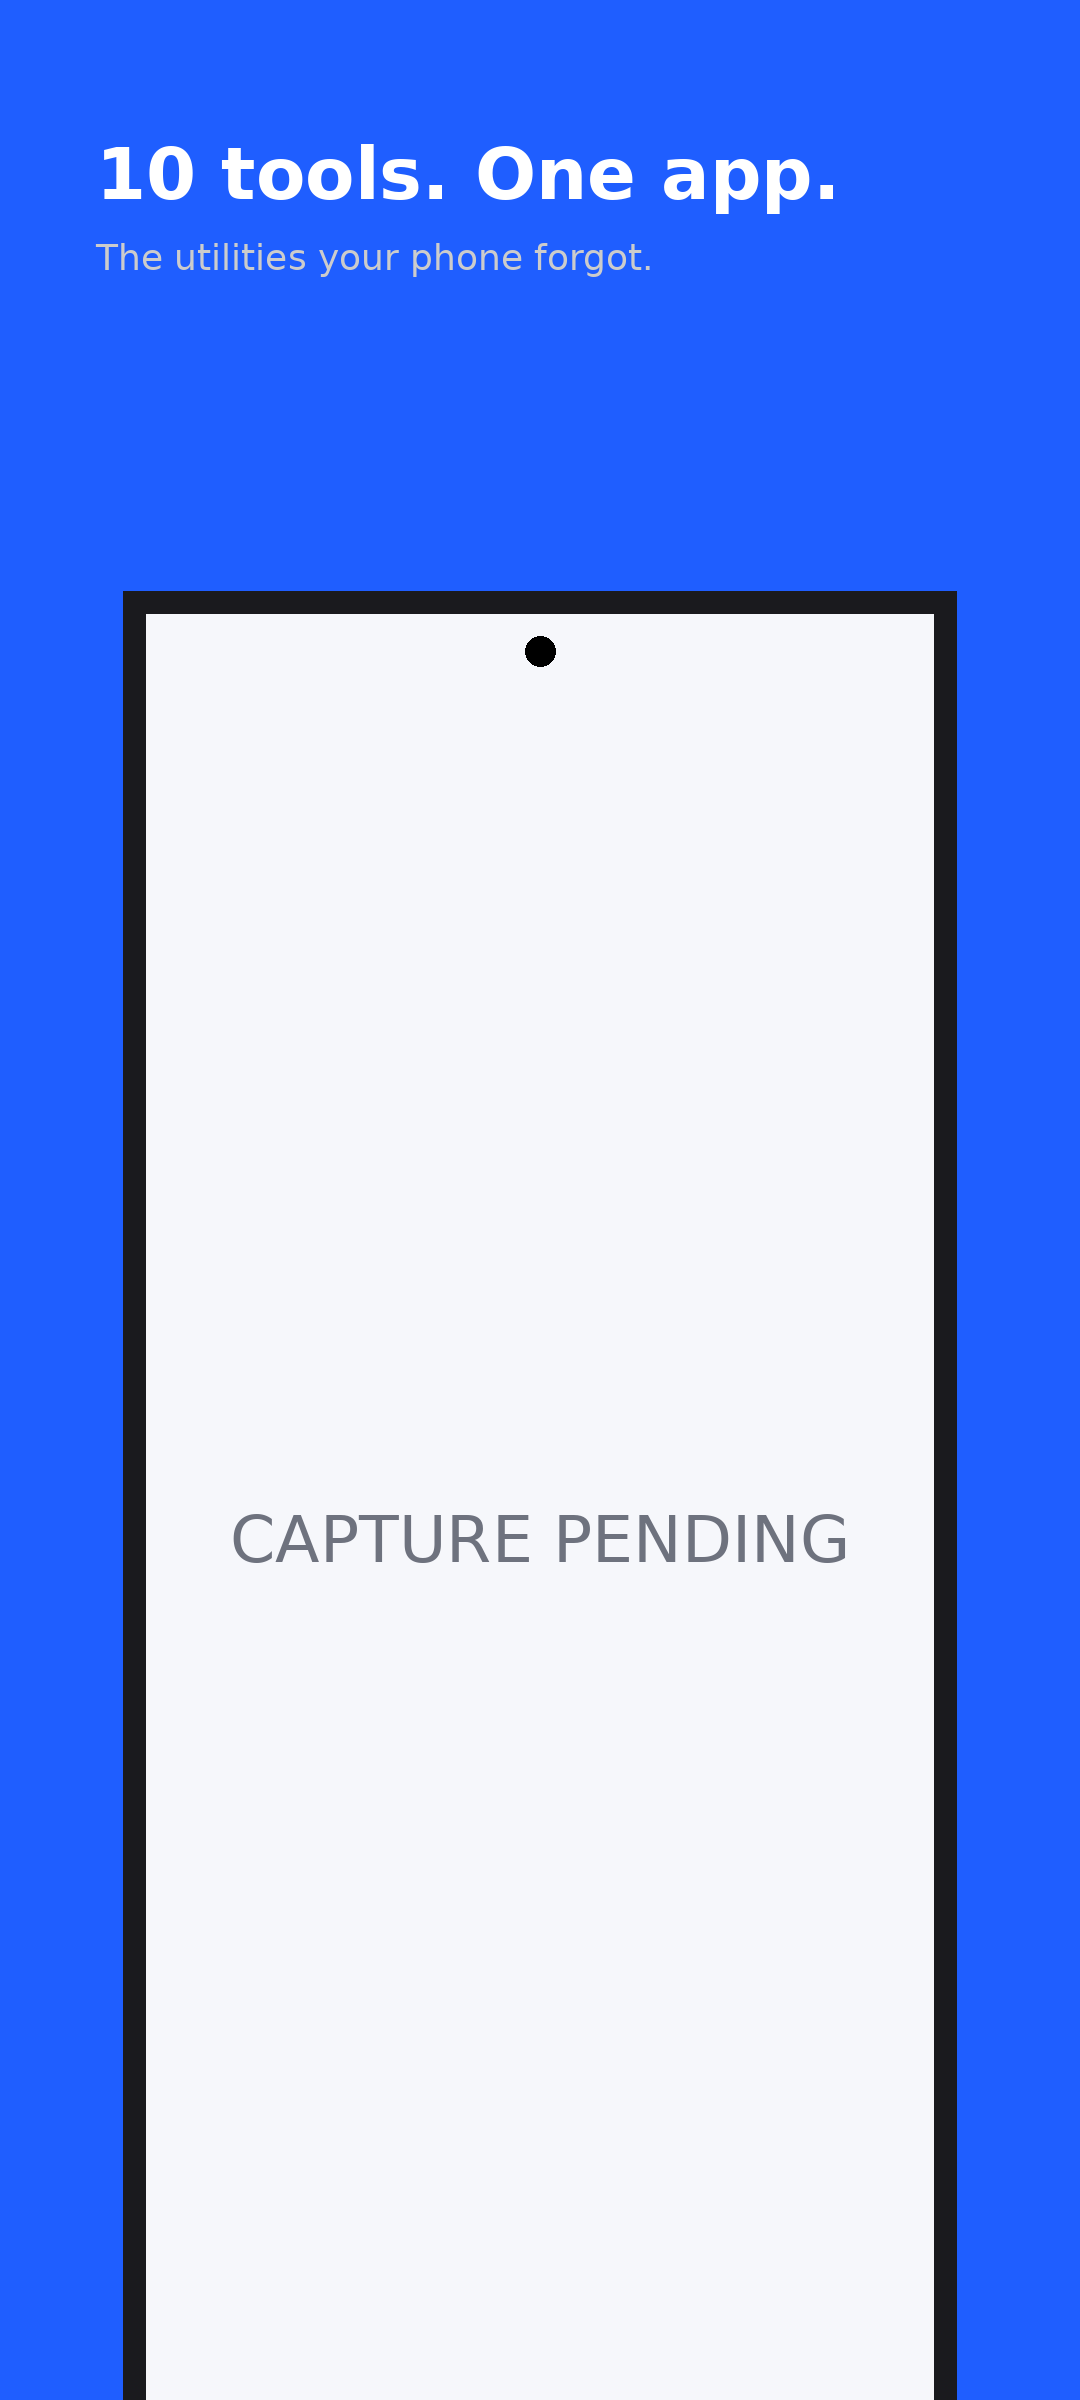
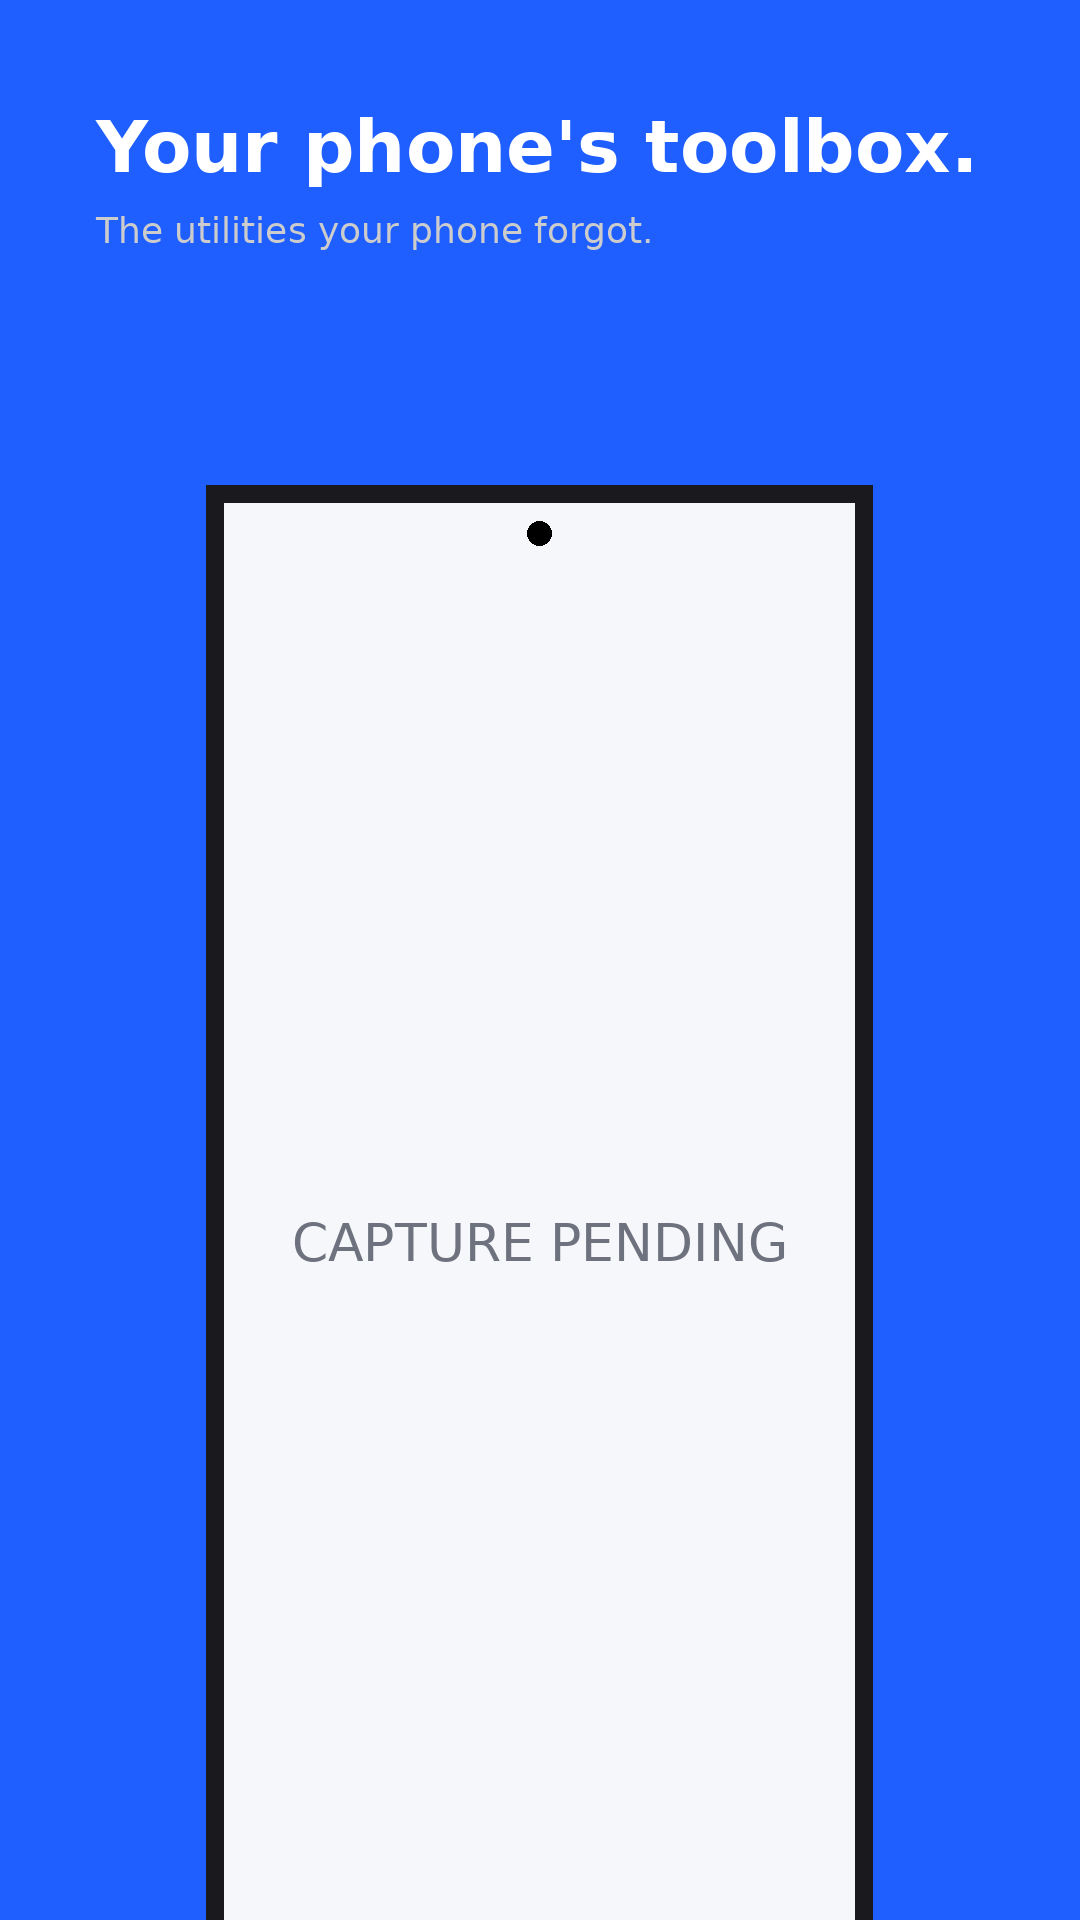
Store-submission prep: metadata, screenshots, deliver/supply pipelines
iOS App Store and Google Play listings staged end to end. HELD — no Ship-Build
or Ship-Store marker, so this builds and tests only; nothing is submitted or
deployed by this commit.

- iOS: fastlane deliver metadata (name/subtitle/keywords/promo/description/
  release notes/urls, all within limits) + reviewer notes; gated `release` lane
  and a `store` CI job (STORE_SUBMIT_ENABLED + Ship-Store=YES) that pushes
  listing + screenshots and submits for review, held for manual release.
- Android: fastlane supply metadata (title/short/full/changelog) with honest copy
  for the real working toolset; Appfile + `listing` lane; CI step pushes the Play
  listing once the service-account secret is set (AAB already auto-publishes to
  the internal track).
- Screenshots: six real framed slides per platform from current CI captures;
  framing script fixed (30-tool captions, $19.99, Play-legal 1080x1920 canvas).
  Play feature graphic (1024x500) + 512x512 icon generated.
- docs/rulebook.md: the store-submission gate (ad safety, data declarations,
  listing honesty, asset specs, metadata limits, permissions, release gating).

Claude-Session: https://claude.ai/code/session_01V11L85gsYNHDmHozbGeaup

Changed region(s): [[0.0917, 0.2188, 0.8861, 1.0], [0.0917, 0.0625, 0.8861, 0.125]]

diff --git a/store-screenshots/frame_screenshots.py b/store-screenshots/frame_screenshots.py
@@ -60,28 +60,34 @@ GREY = (110, 114, 126)         # placeholder ink
 BOLD = "/usr/share/fonts/truetype/dejavu/DejaVuSans-Bold.ttf"
 REG = "/usr/share/fonts/truetype/dejavu/DejaVuSans.ttf"
 
-CANVAS = {"ios": (1290, 2796), "android": (1080, 2400)}
+CANVAS = {"ios": (1290, 2796), "android": (1080, 1920)}  # Play caps phone ratio at 2:1; 1080x1920 = 16:9
 # device width/height ratios used for the drawn bezel
 BEZEL_RATIO = {"ios": 0.467, "android": 0.446}
 CAPTION_X = 96
 
 SLIDES = [
-    dict(n=1, caption="10 tools. One app.", support="The utilities your phone forgot.",
+    dict(n=1, caption={"ios": "30 tools. One app.", "android": "Your phone's toolbox."},
+         support="The utilities your phone forgot.",
          route="home", mode="light"),
-    dict(n=2, caption="Your snooze. Your rules.", support="Set the snooze length once.",
-         route="alarm", mode="light"),
-    dict(n=3, caption="Copy five. Paste any.", support="Clipboard history, stacked and ready.",
-         route={"android": "clipboard", "ios": "clips"}, mode="light"),
-    dict(n=4, caption="Grab the whole thing",
-         support={"android": "Full-page screenshots, stitched.",
-                  "ios": "Words lifted straight from the image."},
-         route={"android": "screenshot", "ios": "ocr"}, mode="dark"),
-    dict(n=5, caption="See what's hidden",
-         support={"android": "Every volume, one desk.",
-                  "ios": "Location and metadata, exposed."},
-         route={"android": "volume", "ios": "exif"}, mode="dark"),
-    dict(n=6, caption="Pro: ads gone. $9.99 a year.",
-         support="Free on the left. Pro on the right.", split=True),
+    dict(n=2, caption={"ios": "Scan anything to PDF.", "android": "Grab text from any photo."},
+         support={"ios": "Scan, OCR, sign and fill.",
+                  "android": "Copy text straight from an image."},
+         route={"ios": "scan", "android": "ocr"}, mode="light"),
+    dict(n=3, caption={"ios": "Read any language.", "android": "Paste anything you copied."},
+         support={"ios": "Text, camera and voice — offline.",
+                  "android": "Your clipboard, with a history."},
+         route={"ios": "translate", "android": "clipboard"}, mode="dark"),
+    dict(n=4, caption={"ios": "Fix, cut out, resize photos.", "android": "Alarms, your way."},
+         support={"ios": "Enhance, remove backgrounds, passport photos.",
+                  "android": "Custom snooze and sounds."},
+         route={"ios": "studio", "android": "alarm"}, mode="dark"),
+    dict(n=5, caption={"ios": "Spot a scam text.", "android": "Quick notes that stay put."},
+         support={"ios": "See why a message is flagged.",
+                  "android": "A sticky note, one tap away."},
+         route={"ios": "shield", "android": "scratchpad"}, mode="light"),
+    dict(n=6, caption="Pro: ads gone. $19.99 a year.",
+         support="Unlimited everything. Support one indie dev.",
+         route="paywall", mode="light"),
 ]
 
 
@@ -166,6 +172,7 @@ def draw_captions(canvas, slide, top_y):
 def frame_slide(platform, slide, captures, placeholder=False):
     """Build one framed slide. `captures` maps 'free'/'pro' or 'single' -> Image."""
     slide = dict(slide)
+    slide["caption"] = route_of(slide["caption"], platform)
     slide["support"] = route_of(slide["support"], platform)
     cw, ch = CANVAS[platform]
     bg = BLUE if slide["n"] % 2 == 1 else DARK

diff --git a/docs/rulebook.md b/docs/rulebook.md
@@ -1,0 +1,71 @@
+# Tenzy store rulebook
+
+Read and apply this before any store submission, listing change, new tool, or third-party page.
+It is the gate AGENTS.md points at. Keep it in sync with the actual pipeline and privacy policy.
+
+## 1. Ad safety (protects the AdMob account)
+
+- **Never serve live ad units outside a real production build.** Viewing or tapping your own live
+  ads is the #1 cause of AdMob account bans (invalid traffic).
+  - iOS: live units serve only in an App Store build (receipt check in `ios/HandyTools/Ads/Ads.swift`).
+    TestFlight and dev use Google's reserved test units.
+  - Android: live units serve only when built with `-PliveAds=true` (`BuildConfig.LIVE_ADS` in
+    `android/app/src/main/java/com/handytools/app/ads/Ads.kt`). Debug and the internal-testing
+    release use Google's test units.
+- Banner sits in a labelled bottom chrome strip ("Ads keep Tenzy free / Remove ads"), fenced with a
+  hairline and reserved height — no layout shift, no accidental taps.
+- Interstitials: at most once every 3 minutes, only after a tool action completes. Never on launch.
+- A rejection during AdMob/App review is **not** a ban. Fix and resubmit on the same account — never
+  create a second account to get around a block (that is what turns a fixable rejection permanent).
+
+## 2. Privacy & data declarations (must match `docs/privacy.html`)
+
+- No analytics, no crash SDK, no account. Files stay on device.
+- The only data collected is the advertising identifier used by AdMob to show/count ads; Pro disables
+  ads and the ad code. Pro is a single auto-renewing subscription ($19.99/yr or $2.99/mo).
+- Apple App Privacy: declare "Identifiers → Device ID" used for Third-Party Advertising, not linked to
+  identity, not used for tracking beyond the ATT prompt.
+- Play Data safety: no data collected or shared except the ad identifier; declare accordingly.
+- Keep App Privacy / Data safety answers identical in substance to the privacy policy.
+
+## 3. Honesty of the listing (both stores reject misrepresentation)
+
+- Screenshots and descriptions must match the **shipped build**, not an older or aspirational one.
+  Re-capture after any catalog change.
+- Do not advertise tools that don't work on the target platform:
+  - Android page-3 AI tiles fall back to a "needs Gemini Nano" card on most devices, and `signfill`
+    is a Coming-Soon placeholder. These are **excluded** from the Play listing copy and screenshots
+    until they genuinely work. iOS ships all 30 as working tools.
+- "30 tools" is an iOS claim. The Android listing describes the real working subset without a count.
+
+## 4. Asset specs
+
+- iOS screenshots: 6.9" display, **1290×2796** (the one required size; Apple scales down).
+- Play phone screenshots: each side 320–3840 px and ratio **≤ 2:1** → use **1080×1920** (1080×2400 is
+  rejected). 2–8 images.
+- Play feature graphic: **1024×500**, no alpha. Play high-res icon: **512×512** PNG.
+- Pipeline: `store-screenshots/frame_screenshots.py` frames CI device captures to these sizes.
+
+## 5. Metadata limits
+
+- App Store: name ≤30, subtitle ≤30, keywords ≤100 (comma-separated, no spaces), promotional text
+  ≤170, description ≤4000.
+- Play: title ≤30, short description ≤80, full description ≤4000.
+- Metadata lives in `ios/fastlane/metadata` and `android/fastlane/metadata`; it is the source of truth
+  and is pushed by the pipeline, not typed into the console.
+
+## 6. Permissions
+
+- Every requested permission needs a usage string and a one-line reviewer justification
+  (`ios/fastlane/metadata/review_information/notes.txt`; Play app-content declarations).
+- Adding a tool that needs a new permission = update the usage string, the reviewer notes, the privacy
+  policy, and this rulebook in the same change.
+
+## 7. Release gating (nothing ships by accident)
+
+- iOS TestFlight: `TESTFLIGHT_ENABLED=true` + commit trailer `Ship-Build=YES`.
+- iOS App Store submit: `STORE_SUBMIT_ENABLED=true` + commit trailer `Ship-Store=YES`
+  (`fastlane release` → deliver; release held for a manual tap after approval).
+- Android: builds every push; auto-publishes to the Play **internal** track once
+  `PLAY_SERVICE_ACCOUNT_JSON` is set; listing pushed by `fastlane listing` (best-effort).
+- A plain push builds and tests only — it never deploys or submits.

diff --git a/LAUNCH-CHECKLIST.md b/LAUNCH-CHECKLIST.md
@@ -1,5 +1,10 @@
 # HandyTools — launch checklist
 
+> **Outdated (kept for history).** This predates the Tenzy rename, the 30-tool catalog, the $19.99
+> pricing, and the automated store pipeline. For the current rules see `docs/rulebook.md`; for the
+> live submission state see the store-submission summary in chat / `ios/fastlane` + `android/fastlane`.
+
+
 Both apps compile green on CI (branch `handytools`). This is what's left between "builds" and "in the stores", in order. Every step is a few minutes; nothing here needs code.
 
 ## Where things are
